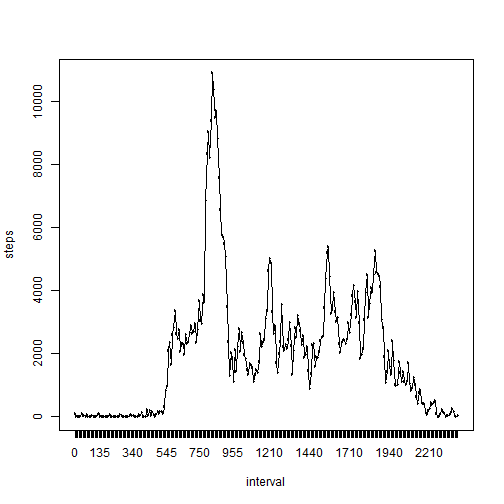
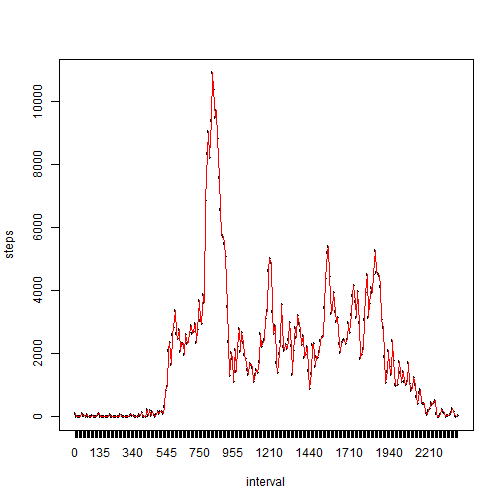
Add files via upload

diff --git a/PA1_template.md b/PA1_template.md
@@ -68,7 +68,7 @@ plot(Dailypattern$interval, Dailypattern$steps, type = "l", xlab = "interval", y
 ![plot of chunk Dailypattern](figure/Dailypattern-1.png)
 
 ```r
-lines(Dailypattern$interval, Dailypattern$steps, type = "l")
+lines(Dailypattern$interval, Dailypattern$steps, type = "l", col="red")
 ```
 
 ![plot of chunk Dailypattern](figure/Dailypattern-2.png)
